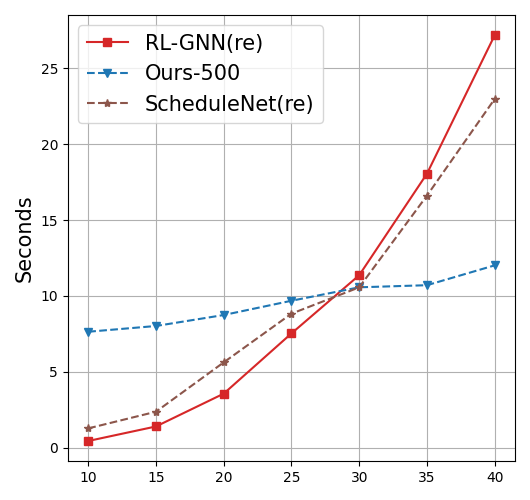
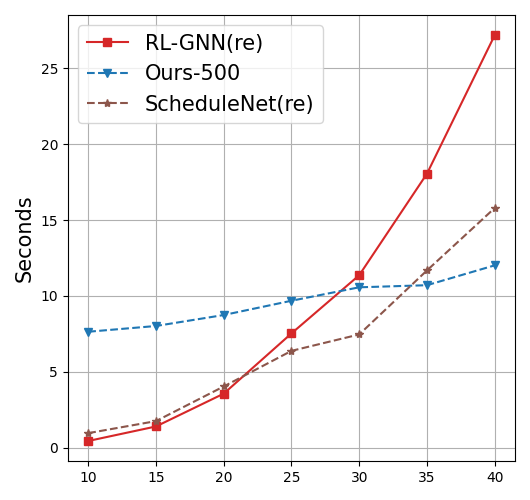
upload data and figure

diff --git a/rollout.py b/rollout.py
@@ -59,7 +59,8 @@ if __name__ == "__main__":
     tga = TGA().to(dev)
     policy = Policy().to(dev)
 
-    setting = 'free_for_all'  # 'm=10', 'j=40', 'free_for_all'
+    setting = 'm=10'  # 'm=10', 'j=40', 'free_for_all'
+    detach = True
 
     if setting == 'm=10':
         j = [10, 15, 20, 25, 30, 35, 40]
@@ -72,7 +73,7 @@ if __name__ == "__main__":
         # m = [15, 15, 20, 15, 20, 15, 20, 20, 10, 15, 6, 10, 5]
         j = [10, 15, 20, 10, 15, 20, 30, 15, 20, 20, 50, 10, 20]
         m = [5, 5, 5, 10, 10, 10, 10, 15, 10, 15, 10, 10, 20]
-    save_dir = 'plt/ScheduleNet_complexity_{}_reimplement.npy'.format(setting)
+    save_dir = 'plt/ScheduleNet_complexity_{}_reimplement_detach.npy'.format(setting) if detach else 'plt/ScheduleNet_complexity_{}_reimplement.npy'
 
     print('Warm start...')
     for p_m, p_j in zip([5], [5]):  # select problem size
@@ -82,7 +83,7 @@ if __name__ == "__main__":
     times = []
     for p_m, p_j in zip(m, j):  # select problem size
         print('Problem size = (m={}, j={})'.format(p_m, p_j))
-        s = Simulator(p_m, p_j, verbose=False, detach_done=True)
+        s = Simulator(p_m, p_j, verbose=False, detach_done=detach)
         _, t, _ = rollout(s, dev, embedding_net=tga, policy_net=policy, verbose=True)
         times.append(t)
 

diff --git a/plt/plot_complexity.py b/plt/plot_complexity.py
@@ -2,12 +2,12 @@ import numpy as np
 import matplotlib.pyplot as plt
 
 
-fixed = 'm=10'  # 'j=40', 'm=10'
+fixed = 'j=40'  # 'j=40', 'm=10'
 
 datas = [
     'RL-GNN_complexity_{}_reimplement.npy'.format(fixed),
     'L2S_complexity_{}_[500].npy'.format(fixed),
-    'ScheduleNet_complexity_{}_reimplement.npy'.format(fixed),
+    'ScheduleNet_complexity_{}_reimplement_detach.npy'.format(fixed),
 ]
 
 times_for_plot = []
